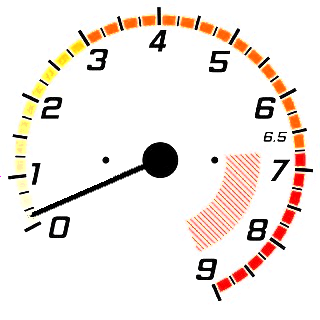
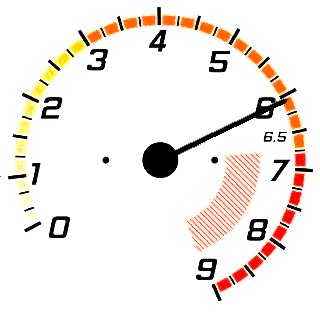
kinda fixxed tacho

Changed region(s): [[0.5312, 0.2812, 0.9062, 0.5], [0.0938, 0.5, 0.4688, 0.6875]]

diff --git a/src/mygame/LocomotivesScreenController.java b/src/mygame/LocomotivesScreenController.java
@@ -10,12 +10,12 @@ import de.lessvoid.nifty.elements.render.ImageRenderer;
 import de.lessvoid.nifty.render.NiftyImage;
 import de.lessvoid.nifty.screen.Screen;
 import de.lessvoid.nifty.screen.ScreenController;
-import java.awt.Graphics;
 import java.awt.Graphics2D;
 import java.awt.geom.AffineTransform;
 import java.awt.image.BufferedImage;
 import java.io.File;
 import java.io.IOException;
+import java.util.Random;
 import java.util.logging.Level;
 import java.util.logging.Logger;
 import javax.imageio.ImageIO;
@@ -28,8 +28,14 @@ public class LocomotivesScreenController implements ScreenController{
     private Nifty nifty;
     private Screen screen;
     
+    int randomnumber =0;
+    int previousrandomnumber;
+    
+    final String imagename = "tachometer-made.png";
+    final String xmlelementid = "tacho-1";
+    
     // angle in radian to rotate the tachometer pointer 
-    private double angle=0;
+    private double angle;
     
     //test speed to play around with the GUI of the first locomotive
     private int speed;
@@ -98,8 +104,9 @@ public class LocomotivesScreenController implements ScreenController{
         }
         
         try {
-            makeTacho(angle,"tachometer-made.png");
-            setTacho("Interface/tachometer-made.png","tacho-1");
+            makeTacho(angle);
+            setTacho("Interface/");
+            //setTacho("Interface/tachometer-made.png","tacho-1");
         } catch (IOException ex) {
             Logger.getLogger(LocomotivesScreenController.class.getName()).log(Level.SEVERE, "can't make tacho", ex);
         }
@@ -110,7 +117,7 @@ public class LocomotivesScreenController implements ScreenController{
         System.out.println("Angle: "+angle+" --> "+Math.toDegrees(angle));
     }
     
-    private void makeTacho(double angle, String targetname) throws IOException {
+    private void makeTacho(double angle) throws IOException {
         // load source images
         BufferedImage background = ImageIO.read(new File("assets/Interface/tachometer.png"));
         BufferedImage pointer = ImageIO.read(new File("assets/Interface/pointer.png"));
@@ -118,11 +125,9 @@ public class LocomotivesScreenController implements ScreenController{
         // create the new image
         BufferedImage tacho = new BufferedImage(background.getWidth(), background.getHeight(), BufferedImage.TYPE_INT_ARGB);
 
-
         // paint tachometer background, preserving the alpha channels
-        Graphics g = tacho.getGraphics();
+        Graphics2D g = tacho.createGraphics();
         g.drawImage(background, 0, 0, null);
-
 
         // create the transform, note that the transformations happen in reversed order (so check them backwards)
         AffineTransform at = new AffineTransform();
@@ -140,32 +145,40 @@ public class LocomotivesScreenController implements ScreenController{
         //    center (easier :))
         at.translate(-pointer.getWidth()/2, -pointer.getHeight()/2);
 
-        // draw the image
-        Graphics2D g2d = (Graphics2D) g;
-        g2d.drawImage(pointer, at, null);
+        // add pointer over background
+        g.drawImage(pointer, at, null);
 
-        // Save as new image
-        ImageIO.write(tacho, "PNG", new File("assets/Interface/"+targetname));
+        previousrandomnumber = randomnumber;
+        randomnumber = new Random().nextInt(899)+100;
+        
+        // save as new image
+        ImageIO.write(tacho, "PNG", new File("assets/Interface/"+randomnumber+imagename));
+        //ImageIO.write(tacho, "PNG", new File("assets/Interface/"+targetname));
 
         // get rid of all graphic elements
+        g.dispose();
         background.flush();
         background = null;
         pointer.flush();
         pointer = null;
         tacho.flush();
         tacho = null;
-        g.dispose();
-        g2d.dispose();
+        System.gc();
     }
         
-    private void setTacho(String path, String id){
+    private void setTacho(String path){
         // load or create new image
-        NiftyImage tachometer = nifty.createImage(path, false);
+        NiftyImage tachometer = nifty.createImage(path+randomnumber+imagename, false);
         
         // find old image
-        Element niftyElement = nifty.getCurrentScreen().findElementByName(id);
+        Element niftyElement = nifty.getCurrentScreen().findElementByName(xmlelementid);
         
         // swap old with new image
         niftyElement.getRenderer(ImageRenderer.class).setImage(tachometer);
+                
+        // delete that same image
+        if(previousrandomnumber!=0){
+            new File(path+previousrandomnumber+imagename).delete();
+        }
     }
 }
